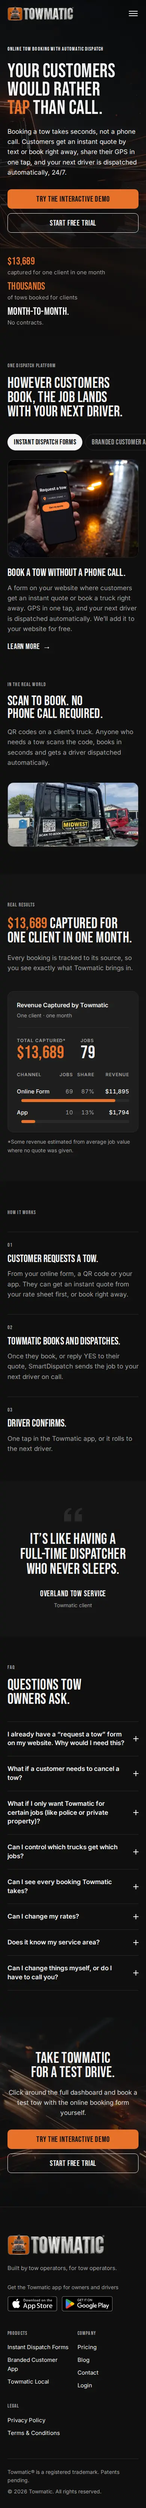
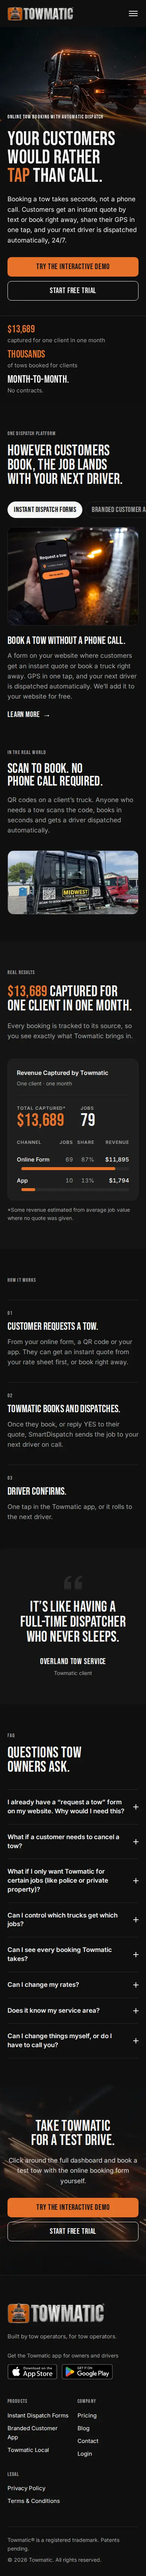
Play the hero video on phones and show the truck as a band at the top
Phones now get the animated hero too (still skipped for reduced motion and
Data Saver). Under 768px the homepage hero shows the video as a zoomed band
above the headline so the truck is easy to see. Hardened the rotating hero
word so it can never stay invisible.

Claude-Session: https://claude.ai/code/session_01QozjXnkBDgD25Ken8NMvP1

diff --git a/website/main.js b/website/main.js
@@ -121,25 +121,30 @@
       index = (index + 1) % words.length;
       var next = words[index];
       if (!canAnimate) { cycleWord.textContent = next; return; }
-      cycleWord.animate(
+      // Clear any leftover animation first, so the word can never stay stuck invisible
+      if (cycleWord.getAnimations) cycleWord.getAnimations().forEach(function (a) { a.cancel(); });
+      var out = cycleWord.animate(
         [{ opacity: 1, transform: 'none' }, { opacity: 0, transform: 'translateY(-0.18em)' }],
         { duration: 220, easing: 'ease-in', fill: 'forwards' }
-      ).onfinish = function () {
+      );
+      out.onfinish = function () {
         cycleWord.textContent = next;
+        // No forward fill on the way in: when it ends, the word is plainly visible
         cycleWord.animate(
           [{ opacity: 0, transform: 'translateY(0.18em)' }, { opacity: 1, transform: 'none' }],
-          { duration: 320, easing: 'cubic-bezier(0.22, 1, 0.36, 1)', fill: 'forwards' }
+          { duration: 320, easing: 'cubic-bezier(0.22, 1, 0.36, 1)' }
         );
+        out.cancel();
       };
     }, 2500);
   }
 
-  /* ---------- Hero video: desktop only, never with reduced motion ---------- */
+  /* ---------- Hero video: every screen size, never with reduced motion or Data Saver ---------- */
   var video = document.querySelector('[data-hero-video]');
   if (video) {
-    var wide = window.matchMedia('(min-width: 768px)');
     var hasSource = video.querySelector('source');
-    if (hasSource && wide.matches && !reduceMotion.matches) {
+    var saveData = navigator.connection && navigator.connection.saveData;
+    if (hasSource && !reduceMotion.matches && !saveData) {
       video.preload = 'auto';
       var playing = video.play();
       if (playing && playing.catch) playing.catch(function () {});

diff --git a/website-no-voice/styles.css b/website-no-voice/styles.css
@@ -525,6 +525,24 @@ main:focus { outline: none; }
   padding-block: 48px 40px;
 }
 
+/* Homepage hero on phones: the photo/video becomes a band at the top, so the whole truck is visible,
+   fading into the background above the headline instead of sitting cropped behind the text. */
+@media (max-width: 767px) {
+  .hero--home { min-height: 0; }
+  .hero--home .hero__media {
+    position: relative;
+    inset: auto;
+    z-index: 0;
+    aspect-ratio: 4 / 3;
+    margin-bottom: -64px;
+    -webkit-mask-image: linear-gradient(to bottom, #000 60%, transparent 100%);
+    mask-image: linear-gradient(to bottom, #000 60%, transparent 100%);
+  }
+  .hero--home .hero__video { object-position: 72% 50%; transform: scale(1.3); transform-origin: 70% 58%; }
+  .hero--home .hero__scrim { display: none; }
+  .hero--home .hero__content { position: relative; padding-top: 0; }
+}
+
 .hero__eyebrow { color: var(--color-text); }
 
 .hero__title {

diff --git a/website/styles.css b/website/styles.css
@@ -525,6 +525,24 @@ main:focus { outline: none; }
   padding-block: 48px 40px;
 }
 
+/* Homepage hero on phones: the photo/video becomes a band at the top, so the whole truck is visible,
+   fading into the background above the headline instead of sitting cropped behind the text. */
+@media (max-width: 767px) {
+  .hero--home { min-height: 0; }
+  .hero--home .hero__media {
+    position: relative;
+    inset: auto;
+    z-index: 0;
+    aspect-ratio: 4 / 3;
+    margin-bottom: -64px;
+    -webkit-mask-image: linear-gradient(to bottom, #000 60%, transparent 100%);
+    mask-image: linear-gradient(to bottom, #000 60%, transparent 100%);
+  }
+  .hero--home .hero__video { object-position: 72% 50%; transform: scale(1.3); transform-origin: 70% 58%; }
+  .hero--home .hero__scrim { display: none; }
+  .hero--home .hero__content { position: relative; padding-top: 0; }
+}
+
 .hero__eyebrow { color: var(--color-text); }
 
 .hero__title {

diff --git a/website-no-voice/main.js b/website-no-voice/main.js
@@ -109,12 +109,12 @@
     });
   }
 
-  /* ---------- Hero video: desktop only, never with reduced motion ---------- */
+  /* ---------- Hero video: every screen size, never with reduced motion or Data Saver ---------- */
   var video = document.querySelector('[data-hero-video]');
   if (video) {
-    var wide = window.matchMedia('(min-width: 768px)');
     var hasSource = video.querySelector('source');
-    if (hasSource && wide.matches && !reduceMotion.matches) {
+    var saveData = navigator.connection && navigator.connection.saveData;
+    if (hasSource && !reduceMotion.matches && !saveData) {
       video.preload = 'auto';
       var playing = video.play();
       if (playing && playing.catch) playing.catch(function () {});

diff --git a/website-no-voice/index.html b/website-no-voice/index.html
@@ -250,7 +250,7 @@
 <main id="main" tabindex="-1">
 
   <!-- 5.1 Hero -->
-  <section class="hero" aria-labelledby="hero-title">
+  <section class="hero hero--home" aria-labelledby="hero-title">
     <div class="hero__media" aria-hidden="true">
       <!-- The poster is the still hero image. Phones and reduced-motion visitors only ever see the poster. -->
       <video class="hero__video" muted loop playsinline preload="none" poster="images/hero.webp" data-hero-video>

diff --git a/website/index.html b/website/index.html
@@ -277,7 +277,7 @@
 <main id="main" tabindex="-1">
 
   <!-- 5.1 Hero -->
-  <section class="hero" aria-labelledby="hero-title">
+  <section class="hero hero--home" aria-labelledby="hero-title">
     <div class="hero__media" aria-hidden="true">
       <!-- The poster is the still hero image. Phones and reduced-motion visitors only ever see the poster. -->
       <video class="hero__video" muted loop playsinline preload="none" poster="images/hero.webp" data-hero-video>

diff --git a/website-no-voice/HANDOFF.md b/website-no-voice/HANDOFF.md
@@ -161,8 +161,10 @@ All images are WebP in `images/` and lazy-loaded below the first screen. The her
 **Hero video.** The homepage hero `<video>` plays `images/hero.mp4` (1.2 MB, 8s seamless loop, 1920×1080, H.264,
 no audio, muted, looping, with `images/hero.webm` (VP9, 0.96 MB) as a fallback source) with `hero.webp` as its poster. It animates the orange light lines in the hero photo:
 light pulses run outward along the lines, the lines sway gently, the glow breathes and embers drift; the truck stays
-still. It plays only on screens 768px and wider without reduced motion (see `main.js`); phones and reduced-motion
-visitors only ever see the poster. Keep that behavior. Source project: `videos/hero-streaks/` in this repo
+still. It plays on every screen size, except for visitors with reduced motion or Data Saver turned on, who see the
+poster (see `main.js`). **On phones (under 768px) the homepage hero (`.hero--home`) shows the video as a band at the
+top**, zoomed toward the truck and fading into the background above the headline, so the truck is easy to see. The
+text no longer sits on top of the photo there. Keep that behavior. Source project: `videos/hero-streaks/` in this repo
 (HyperFrames composition; re-render with `npx hyperframes render`).
 
 ---

diff --git a/website/HANDOFF.md b/website/HANDOFF.md
@@ -148,8 +148,10 @@ All images are WebP in `images/` and lazy-loaded below the first screen. The her
 **Hero video.** The homepage hero `<video>` plays `images/hero.mp4` (1.2 MB, 8s seamless loop, 1920×1080, H.264,
 no audio, muted, looping, with `images/hero.webm` (VP9, 0.96 MB) as a fallback source) with `hero.webp` as its poster. It animates the orange light lines in the hero photo:
 light pulses run outward along the lines, the lines sway gently, the glow breathes and embers drift; the truck stays
-still. It plays only on screens 768px and wider without reduced motion (see `main.js`); phones and reduced-motion
-visitors only ever see the poster. Keep that behavior. Source project: `videos/hero-streaks/` in this repo
+still. It plays on every screen size, except for visitors with reduced motion or Data Saver turned on, who see the
+poster (see `main.js`). **On phones (under 768px) the homepage hero (`.hero--home`) shows the video as a band at the
+top**, zoomed toward the truck and fading into the background above the headline, so the truck is easy to see. The
+text no longer sits on top of the photo there. Keep that behavior. Source project: `videos/hero-streaks/` in this repo
 (HyperFrames composition; re-render with `npx hyperframes render`).
 
 ---
